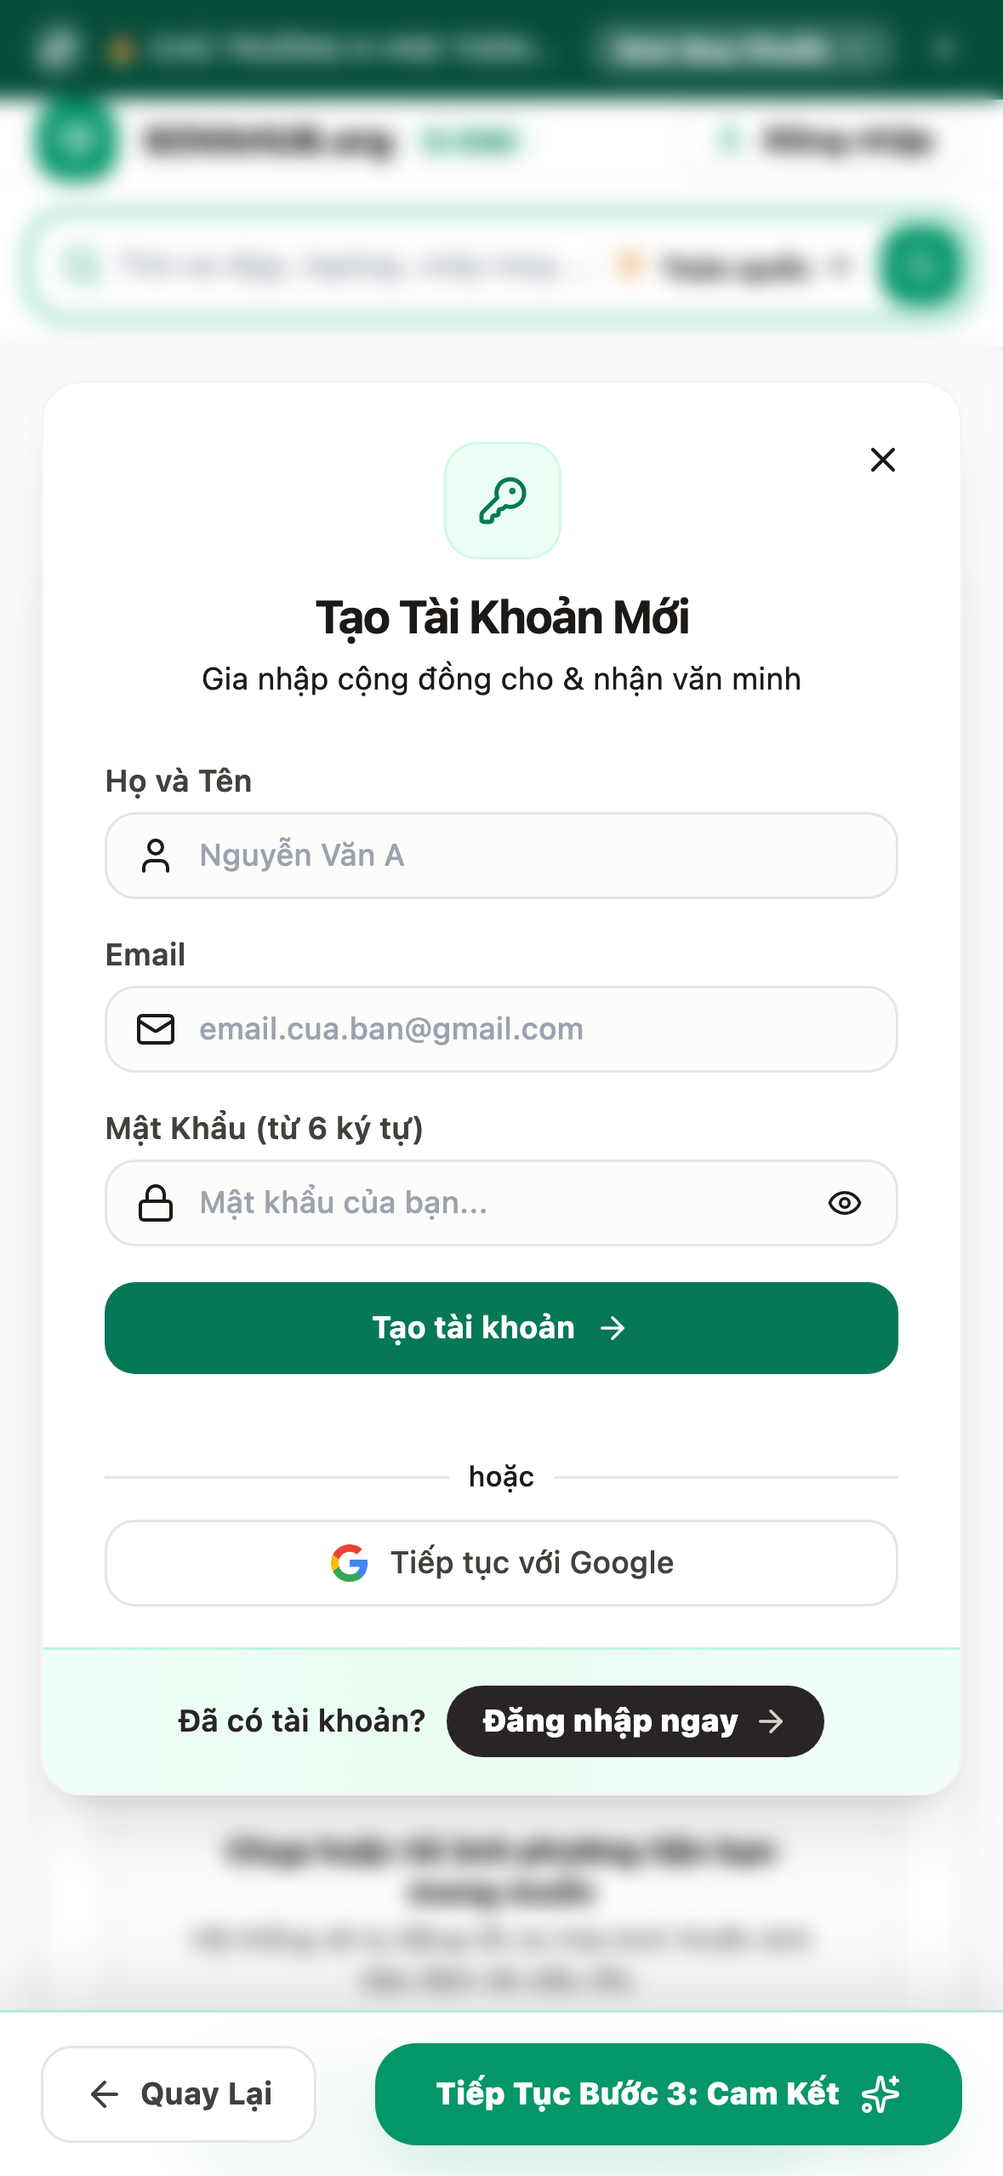
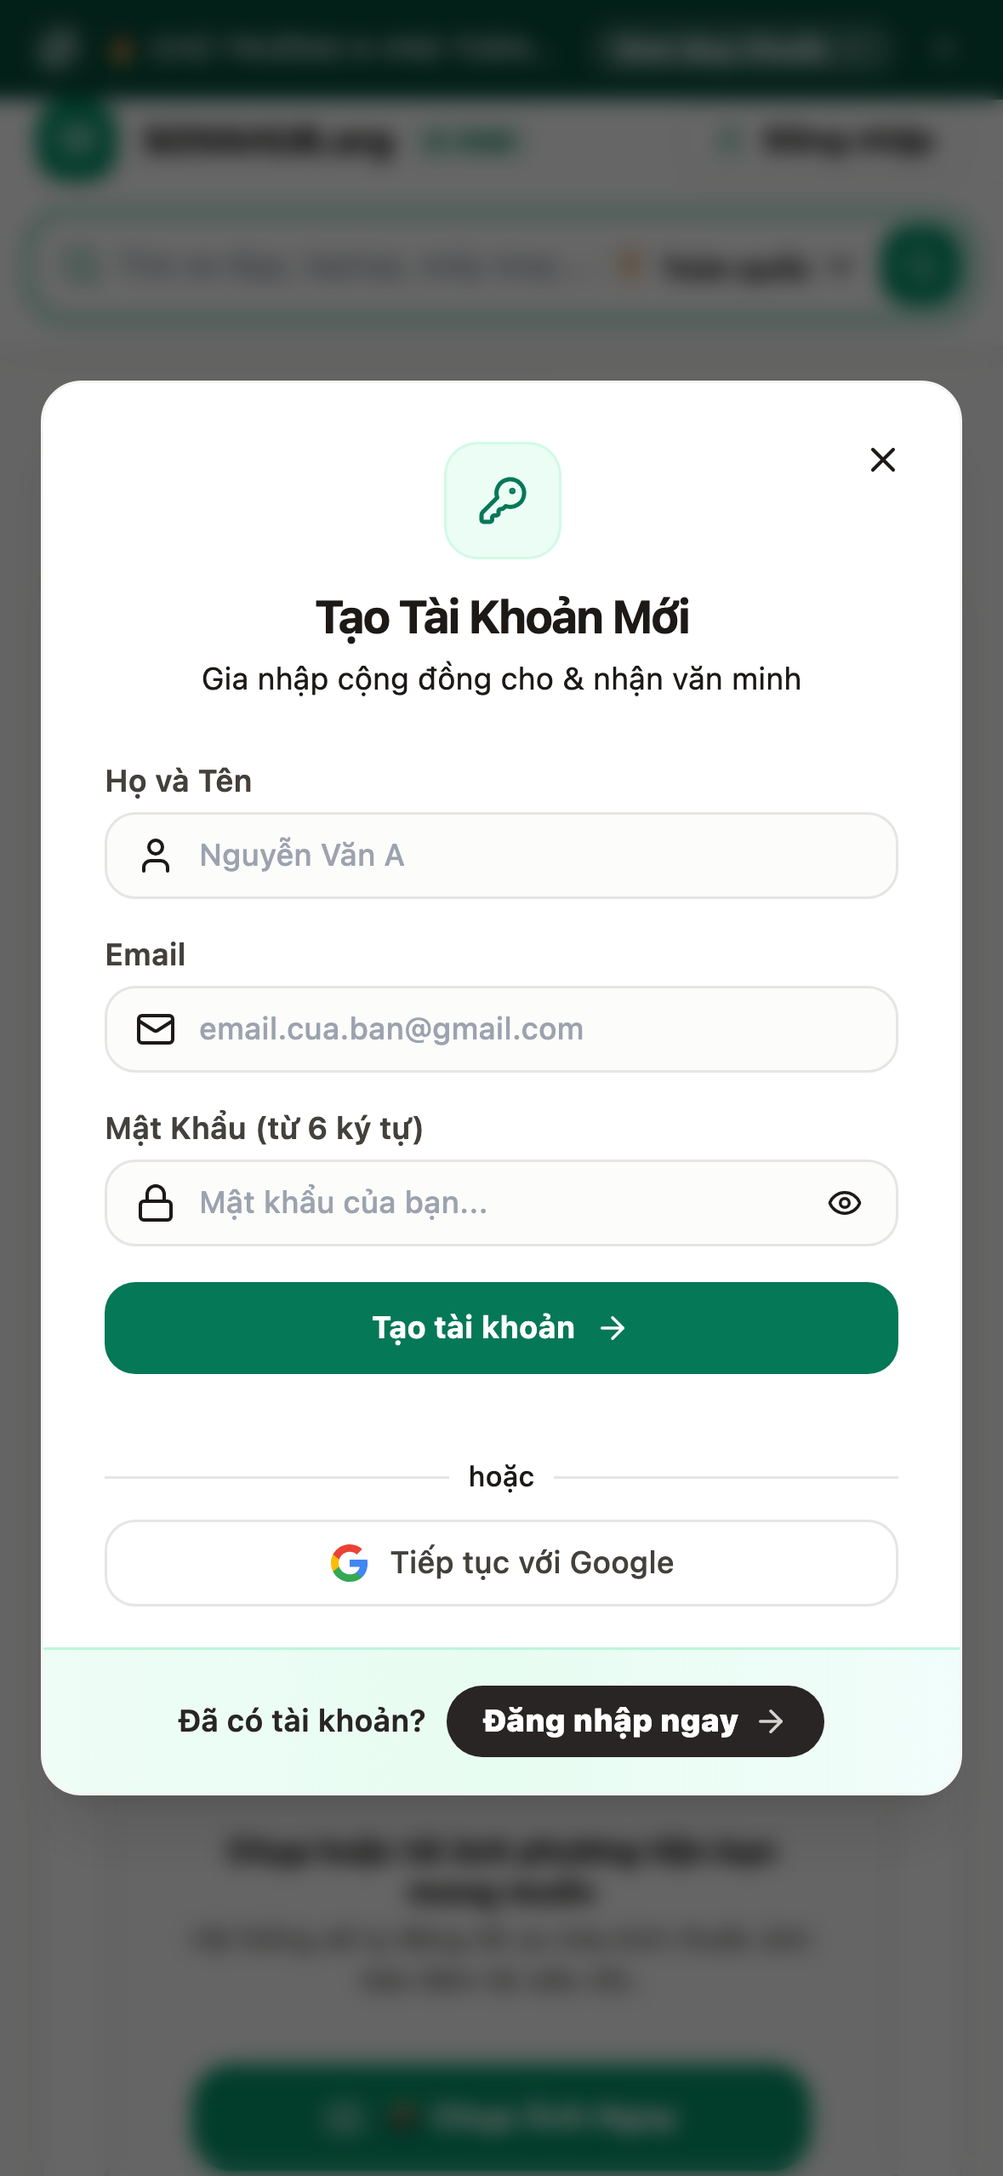
feat(ui): 6-star experience with z-index hierarchy, emerald shimmer wave, spring micro-interactions & dignity meter

diff --git a/src/app/create-wish/page.tsx b/src/app/create-wish/page.tsx
@@ -48,6 +48,7 @@ export default function CreateWishPage() {
   const [createdPassport, setCreatedPassport] = useState<string | null>(null);
   const [subpageNotice, setSubpageNotice] = useState(DEFAULT_FULL_CMS.subpages.createWishNotice);
   const [currentUser, setCurrentUser] = useState<any>(null);
+  const [isAuthModalOpen, setIsAuthModalOpen] = useState(false);
 
   useEffect(() => {
     setSubpageNotice(getFullSiteCMS().subpages.createWishNotice);
@@ -55,13 +56,33 @@ export default function CreateWishPage() {
     setCurrentUser(user);
     if (!user) {
       openAuthModal('REGISTER');
+      setIsAuthModalOpen(true);
     }
 
     const handleAuthChange = () => {
-      setCurrentUser(getActiveUser());
+      const u = getActiveUser();
+      setCurrentUser(u);
+      if (u) {
+        setIsAuthModalOpen(false);
+      }
     };
+
+    const handleAuthModalState = (e: any) => {
+      setIsAuthModalOpen(!!e?.detail?.isOpen);
+    };
+
+    const handleOpenAuth = () => {
+      setIsAuthModalOpen(true);
+    };
+
     window.addEventListener('sova_auth_change', handleAuthChange);
-    return () => window.removeEventListener('sova_auth_change', handleAuthChange);
+    window.addEventListener('sova_auth_modal_state', handleAuthModalState);
+    window.addEventListener('sova_open_auth', handleOpenAuth);
+    return () => {
+      window.removeEventListener('sova_auth_change', handleAuthChange);
+      window.removeEventListener('sova_auth_modal_state', handleAuthModalState);
+      window.removeEventListener('sova_open_auth', handleOpenAuth);
+    };
   }, []);
 
   // Tự động nhận diện danh mục theo từ khóa
@@ -310,7 +331,7 @@ export default function CreateWishPage() {
                         window.scrollTo({ top: 0, behavior: 'smooth' });
                       }, 300);
                     }}
-                    className={`p-4 rounded-2xl border-2 text-left flex items-start gap-3.5 transition-all cursor-pointer ${
+                    className={`btn-spring p-4 rounded-2xl border-2 text-left flex items-start gap-3.5 transition-all cursor-pointer ${
                       active 
                         ? 'border-brand-600 bg-brand-50/60 shadow-soft ring-2 ring-brand-500 scale-[1.01]' 
                         : 'border-warm-200 hover:border-brand-300 hover:bg-warm-50/50 bg-white'
@@ -460,6 +481,47 @@ export default function CreateWishPage() {
                   className="w-full p-3 rounded-2xl border-2 border-warm-200 text-xs font-medium text-warm-900 focus:border-brand-600 focus:outline-none"
                 />
               </div>
+
+              {/* DIGNITY METER (THƯỚC ĐO CAM KẾT DANH DỰ 0-VND) */}
+              <div className="p-3.5 rounded-2xl bg-warm-50/80 border border-warm-200/80 space-y-2">
+                <div className="flex items-center justify-between text-xs">
+                  <div className="flex items-center gap-1.5 font-bold text-warm-800">
+                    <ShieldCheck className={`w-4 h-4 ${reason.trim().length >= 30 ? 'text-emerald-600' : reason.trim().length >= 12 ? 'text-amber-500' : 'text-warm-400'}`}/>
+                    <span>Thước Đo Danh Dự:</span>
+                  </div>
+                  <span className={`px-2 py-0.5 rounded-full text-[10px] font-black transition-all ${
+                    reason.trim().length >= 30 
+                      ? 'bg-emerald-100 text-emerald-800' 
+                      : reason.trim().length >= 12 
+                        ? 'bg-amber-100 text-amber-800' 
+                        : 'bg-warm-200 text-warm-700'
+                  }`}>
+                    {reason.trim().length >= 30 
+                      ? '✨ Chuẩn Danh Dự 10/10' 
+                      : reason.trim().length >= 12 
+                        ? `Cơ bản (${reason.trim().length}/30 ký tự)` 
+                        : `Cần thêm chi tiết (${reason.trim().length}/30 ký tự)`}
+                  </span>
+                </div>
+
+                <div className="h-2 w-full bg-warm-200/80 rounded-full overflow-hidden">
+                  <div 
+                    className={`h-full transition-all duration-500 rounded-full ${
+                      reason.trim().length >= 30 
+                        ? 'bg-gradient-to-r from-emerald-500 to-teal-500 w-full' 
+                        : reason.trim().length >= 12 
+                          ? 'bg-amber-400 w-1/2' 
+                          : 'bg-warm-300 w-1/6'
+                    }`}
+                  />
+                </div>
+
+                <p className="text-[10px] text-warm-600 italic">
+                  {reason.trim().length >= 30 
+                    ? 'Lời chia sẻ chân thành, rõ ràng giúp người trao (Angel) thấu hiểu và an tâm tiếp sức.' 
+                    : 'Hãy chia sẻ ít nhất 30 ký tự về hoàn cảnh thực tế để tăng tối đa cơ hội được trao tặng 0-VND.'}
+                </p>
+              </div>
             </div>
 
             {/* CHECKLIST CAM KẾT DANH DỰ */}
@@ -550,7 +612,9 @@ export default function CreateWishPage() {
       </div>
 
       {/* FLOATING ACTION DOCK (6-STAR ERGONOMIC EXPERIENCE) */}
-      <div className="fixed bottom-0 left-0 right-0 z-[60] bg-white/95 dark:bg-slate-900/95 backdrop-blur-md border-t border-emerald-500/30 px-4 py-3 shadow-[0_-8px_30px_rgba(0,0,0,0.12)]">
+      <div className={`fixed bottom-0 left-0 right-0 z-[50] bg-white/95 dark:bg-slate-900/95 backdrop-blur-md border-t border-emerald-500/30 px-4 py-3 shadow-[0_-8px_30px_rgba(0,0,0,0.12)] transition-all duration-300 ${
+        isAuthModalOpen ? 'opacity-0 pointer-events-none translate-y-full' : 'opacity-100 translate-y-0'
+      }`}>
         <div className="max-w-3xl mx-auto flex items-center justify-between gap-3">
           {/* Nút Quay Lại */}
           {step > 1 ? (
@@ -560,7 +624,7 @@ export default function CreateWishPage() {
                 setStep(step - 1);
                 window.scrollTo({ top: 0, behavior: 'smooth' });
               }}
-              className="px-4 sm:px-5 py-2.5 rounded-xl border border-warm-200 bg-white hover:bg-warm-50 text-xs font-bold text-warm-700 hover:text-brand-700 shadow-2xs flex items-center gap-1.5 transition-all cursor-pointer"
+              className="btn-spring px-4 sm:px-5 py-2.5 rounded-xl border border-warm-200 bg-white hover:bg-warm-50 text-xs font-bold text-warm-700 hover:text-brand-700 shadow-2xs flex items-center gap-1.5 transition-all cursor-pointer"
             >
               <ArrowLeft className="w-4 h-4"/>
               <span>Quay Lại</span>
@@ -581,7 +645,7 @@ export default function CreateWishPage() {
                   setStep(2);
                   window.scrollTo({ top: 0, behavior: 'smooth' });
                 }}
-                className="px-6 py-3 rounded-2xl bg-brand-600 hover:bg-brand-700 active:scale-95 text-white text-xs font-black shadow-float flex items-center gap-2 transition-all cursor-pointer"
+                className="btn-spring px-6 py-3 rounded-2xl bg-brand-600 hover:bg-brand-700 active:scale-95 text-white text-xs font-black shadow-float flex items-center gap-2 transition-all cursor-pointer"
               >
                 <span>Tiếp Tục Bước 2: Hình Ảnh</span>
                 <Sparkles className="w-4 h-4"/>
@@ -595,7 +659,7 @@ export default function CreateWishPage() {
                   setStep(3);
                   window.scrollTo({ top: 0, behavior: 'smooth' });
                 }}
-                className="px-6 py-3 rounded-2xl bg-brand-600 hover:bg-brand-700 active:scale-95 text-white text-xs font-black shadow-float flex items-center gap-2 transition-all cursor-pointer"
+                className="btn-spring px-6 py-3 rounded-2xl bg-brand-600 hover:bg-brand-700 active:scale-95 text-white text-xs font-black shadow-float flex items-center gap-2 transition-all cursor-pointer"
               >
                 <span>Tiếp Tục Bước 3: Cam Kết</span>
                 <Sparkles className="w-4 h-4"/>
@@ -607,7 +671,7 @@ export default function CreateWishPage() {
                 type="button"
                 disabled={submitting}
                 onClick={handleSubmit}
-                className="px-6 sm:px-8 py-3.5 rounded-2xl bg-brand-600 hover:bg-brand-700 active:scale-95 text-white text-xs font-black shadow-float disabled:opacity-50 flex items-center gap-2 transition-all cursor-pointer"
+                className="btn-spring px-6 sm:px-8 py-3.5 rounded-2xl bg-brand-600 hover:bg-brand-700 active:scale-95 text-white text-xs font-black shadow-float disabled:opacity-50 flex items-center gap-2 transition-all cursor-pointer"
               >
                 <Sparkles className="w-4 h-4"/>
                 <span>{submitting ? 'Đang Gieo Mầm...' : 'Gieo Mầm Ước Nguyện 0-VND'}</span>
@@ -619,7 +683,7 @@ export default function CreateWishPage() {
 
       {/* MODAL THÀNH CÔNG */}
       {createdPassport && (
-        <div className="fixed inset-0 z-50 bg-warm-900/60 backdrop-blur-sm flex items-center justify-center p-4">
+        <div className="fixed inset-0 z-[70] bg-black/60 backdrop-blur-sm flex items-center justify-center p-4">
           <div className="bg-white rounded-3xl border-2 border-brand-500 max-w-md w-full p-6 sm:p-8 shadow-2xl text-center space-y-5">
             <div className="w-16 h-16 rounded-full bg-brand-50 text-brand-600 mx-auto flex items-center justify-center ring-8 ring-brand-100">
               <CheckCircle2 className="w-9 h-9"/>

diff --git a/src/app/page.tsx b/src/app/page.tsx
@@ -45,20 +45,20 @@ const CATEGORIES = [
 
 function WishSkeletonCard() {
   return (
-    <div className="bg-white rounded-2xl sm:rounded-3xl border border-warm-200/90 overflow-hidden shadow-soft flex flex-col justify-between animate-pulse">
-      <div className="relative aspect-[4/3] sm:aspect-[16/10] bg-gradient-to-r from-warm-200 via-warm-100 to-warm-200" />
+    <div className="bg-white rounded-2xl sm:rounded-3xl border border-warm-200/90 overflow-hidden shadow-soft flex flex-col justify-between">
+      <div className="relative aspect-[4/3] sm:aspect-[16/10] skeleton-shimmer" />
       <div className="p-3 sm:p-5 flex-1 flex flex-col justify-between space-y-3">
         <div className="space-y-2">
-          <div className="h-4 bg-warm-200 rounded-md w-3/4" />
-          <div className="h-3 bg-warm-100 rounded-md w-1/2" />
+          <div className="h-4 skeleton-shimmer rounded-md w-3/4" />
+          <div className="h-3 skeleton-shimmer rounded-md w-1/2" />
         </div>
         <div className="space-y-1.5 pt-2 hidden sm:block">
-          <div className="h-3 bg-warm-100 rounded w-full" />
-          <div className="h-3 bg-warm-100 rounded w-4/5" />
+          <div className="h-3 skeleton-shimmer rounded w-full" />
+          <div className="h-3 skeleton-shimmer rounded w-4/5" />
         </div>
         <div className="pt-3 border-t border-warm-100 flex items-center justify-between">
-          <div className="h-3 bg-warm-100 rounded w-1/3" />
-          <div className="h-6 sm:h-7 bg-brand-100/70 rounded-xl w-16 sm:w-24" />
+          <div className="h-3 skeleton-shimmer rounded w-1/3" />
+          <div className="h-6 sm:h-7 skeleton-shimmer rounded-xl w-16 sm:w-24" />
         </div>
       </div>
     </div>
@@ -575,7 +575,7 @@ export default function HomePage() {
                   <button
                     key={cat.id}
                     onClick={(e) => handleSelectCategory(cat.id, e)}
-                    className={`inline-flex items-center gap-1.5 px-3 py-1.5 sm:px-3.5 sm:py-2 rounded-xl text-xs font-bold whitespace-nowrap transition-all duration-200 cursor-pointer ${
+                    className={`btn-spring inline-flex items-center gap-1.5 px-3 py-1.5 sm:px-3.5 sm:py-2 rounded-xl text-xs font-bold whitespace-nowrap transition-all duration-200 cursor-pointer ${
                       active 
                         ? 'bg-brand-600 text-white shadow-md shadow-brand-600/25 ring-2 ring-emerald-400/80 scale-[1.03]' 
                         : 'bg-warm-100/80 hover:bg-warm-200/90 text-warm-700 hover:text-warm-900 border border-warm-200/50 hover:scale-[1.01]'
@@ -876,7 +876,7 @@ export default function HomePage() {
       {/* MODAL CHI TIẾT ƯỚC NGUYỆN */}
       {detailWish && (
         <div 
-          className="fixed inset-0 z-[60] bg-warm-900/60 backdrop-blur-sm flex items-end sm:items-center justify-center p-0 sm:p-4 animate-in fade-in"
+          className="fixed inset-0 z-[70] bg-black/60 backdrop-blur-sm flex items-end sm:items-center justify-center p-0 sm:p-4 animate-in fade-in"
           onClick={() => setDetailWish(null)}
         >
           <div 
@@ -890,18 +890,19 @@ export default function HomePage() {
                   <span className="px-2.5 py-0.5 rounded-lg text-[10px] font-black bg-brand-50 text-brand-700 border border-brand-200 uppercase">
                     {normalizeCategoryLabel(inferCategory(detailWish.title, detailWish.category))}
                   </span>
-                  <p className="text-[11px] text-warm-600 flex items-center gap-1 font-bold">
-                    <MapPin className="w-3.5 h-3.5 text-brand-600 shrink-0"/>
-                    <span className="truncate">{VIETNAM_PROVINCES.find(p => p.code === detailWish.province_code)?.name || 'Đà Nẵng'}</span>
-                  </p>
+                  <span className="text-[11px] font-semibold text-warm-500">
+                    Mã #{detailWish.id ? detailWish.id.substring(0, 8) : 'GIVE100'}
+                  </span>
                 </div>
-                <h2 className="text-base sm:text-xl font-black text-warm-900 leading-snug line-clamp-2">{detailWish.title}</h2>
+                <h3 className="font-black text-warm-950 text-base sm:text-lg leading-snug">
+                  {detailWish.title}
+                </h3>
               </div>
 
-              {/* NÚT ĐÓNG X NỔI BẬT CHẠY XUYÊN SUỐT */}
-              <button 
-                onClick={() => setDetailWish(null)} 
-                className="w-9 h-9 sm:w-10 sm:h-10 rounded-full bg-warm-100 hover:bg-warm-200 text-warm-900 border border-warm-200/80 flex items-center justify-center font-black transition-all active:scale-95 hover:scale-105 shrink-0 cursor-pointer shadow-xs"
+              <button
+                type="button"
+                onClick={() => setDetailWish(null)}
+                className="w-8 h-8 rounded-full bg-warm-100 hover:bg-warm-200 text-warm-600 hover:text-warm-900 flex items-center justify-center transition-colors shrink-0 shadow-2xs cursor-pointer"
                 title="Đóng cửa sổ (hoặc bấm ra ngoài / phím Esc)"
               >
                 <X className="w-5 h-5"/>
@@ -943,27 +944,29 @@ export default function HomePage() {
               </div>
             </div>
 
-            {/* PINNED STICKY BOTTOM ACTION FOOTER: LUÔN HIỆN DIỆN, KHÔNG BỊ CHE KHUẤT */}
+            {/* PINNED STICKY BOTTOM ACTION FOOTER */}
             <div className="sticky bottom-0 z-20 bg-white/95 backdrop-blur-md border-t border-warm-200/80 p-3.5 sm:p-4 flex flex-col sm:flex-row gap-2.5 shadow-float">
               <button
+                type="button"
                 onClick={() => {
                   const item = detailWish;
                   setDetailWish(null);
                   openChatModal(item);
                 }}
-                className="py-3 px-4 rounded-2xl bg-warm-100 hover:bg-warm-200 text-warm-900 font-bold text-xs flex items-center justify-center gap-2 transition-all cursor-pointer"
+                className="py-3 px-4 rounded-2xl bg-warm-100 hover:bg-warm-200 text-warm-900 font-bold text-xs flex items-center justify-center gap-2 transition-all active:scale-[0.98] cursor-pointer"
               >
                 <MessageSquare className="w-4 h-4 text-brand-600"/>
                 <span>Nhắn Tin Tìm Hiểu Trước</span>
               </button>
 
               <button
+                type="button"
                 onClick={() => {
                   const item = detailWish;
                   setDetailWish(null);
                   handleOpenClaimModal(item);
                 }}
-                className="flex-1 py-3.5 px-6 rounded-2xl bg-brand-600 hover:bg-brand-700 text-white font-black text-xs sm:text-sm shadow-float flex items-center justify-center gap-2 hover:scale-[1.01] active:scale-95 transition-all cursor-pointer"
+                className="flex-1 py-3.5 px-6 rounded-2xl bg-brand-600 hover:bg-brand-700 text-white font-black text-xs sm:text-sm shadow-float flex items-center justify-center gap-2 hover:scale-[1.01] active:scale-[0.98] transition-all cursor-pointer"
               >
                 <Heart className="w-4 h-4 fill-white"/>
                 <span>Chính Thức Trao Tặng Ước Mơ (Angel)</span>
@@ -976,7 +979,7 @@ export default function HomePage() {
       {/* MODAL NHẮN TIN 1-1 */}
       {chatWish && (
         <div 
-          className="fixed inset-0 z-[60] bg-warm-900/60 backdrop-blur-sm flex items-center justify-center p-4 animate-in fade-in"
+          className="fixed inset-0 z-[70] bg-black/60 backdrop-blur-sm flex items-center justify-center p-4 animate-in fade-in"
           onClick={() => setChatWish(null)}
         >
           <div 
@@ -1124,7 +1127,7 @@ export default function HomePage() {
       {/* MODAL KHỚP NỐI */}
       {selectedWish && (
         <div 
-          className="fixed inset-0 z-[60] bg-warm-900/50 backdrop-blur-sm flex items-center justify-center p-4 animate-in fade-in"
+          className="fixed inset-0 z-[70] bg-black/60 backdrop-blur-sm flex items-center justify-center p-4 animate-in fade-in"
           onClick={() => setSelectedWish(null)}
         >
           <div 

diff --git a/src/app/globals.css b/src/app/globals.css
@@ -42,3 +42,32 @@ body {
   -ms-overflow-style: none !important;
   scrollbar-width: none !important;
 }
+
+/* ==========================================================================
+   6-STAR EMERALD SHIMMER WAVE & SPRING MICRO-INTERACTIONS
+   ========================================================================== */
+@keyframes shimmerWave {
+  0% { background-position: -200% 0; }
+  100% { background-position: 200% 0; }
+}
+
+.skeleton-shimmer {
+  background: linear-gradient(90deg, rgba(243, 244, 246, 0.9) 0%, rgba(209, 250, 229, 0.6) 50%, rgba(243, 244, 246, 0.9) 100%);
+  background-size: 200% 100%;
+  animation: shimmerWave 1.8s infinite linear;
+}
+
+.dark .skeleton-shimmer {
+  background: linear-gradient(90deg, rgba(31, 41, 55, 0.9) 0%, rgba(6, 78, 59, 0.5) 50%, rgba(31, 41, 55, 0.9) 100%);
+  background-size: 200% 100%;
+  animation: shimmerWave 1.8s infinite linear;
+}
+
+/* Tactile Spring Press for Touch & Click */
+.btn-spring {
+  transition: transform 0.15s cubic-bezier(0.34, 1.56, 0.64, 1), box-shadow 0.15s ease;
+}
+.btn-spring:active {
+  transform: scale(0.96);
+}
+

diff --git a/src/components/Navbar.tsx b/src/components/Navbar.tsx
@@ -26,6 +26,12 @@ export default function Navbar() {
   const mobileDropdownRef = useRef<HTMLDivElement>(null);
 
   useEffect(() => {
+    if (typeof window !== 'undefined') {
+      window.dispatchEvent(new CustomEvent('sova_auth_modal_state', { detail: { isOpen: showAuthModal } }));
+    }
+  }, [showAuthModal]);
+
+  useEffect(() => {
     // Lắng nghe sự kiện mở Auth Modal từ bất kỳ nút nào trên website
     const handleOpenAuth = (e: any) => {
       const tab = e?.detail?.tab || 'REGISTER';

diff --git a/src/components/AuthModal.tsx b/src/components/AuthModal.tsx
@@ -285,7 +285,7 @@ export default function AuthModal({ isOpen, onClose, defaultTab = 'LOGIN' }: Aut
   return createPortal(
     <div 
       onClick={handleBackdropClick}
-      className="fixed inset-0 z-50 flex items-center justify-center p-4 bg-warm-950/50 backdrop-blur-sm animate-in fade-in duration-200"
+      className="fixed inset-0 z-[70] flex items-center justify-center p-4 bg-black/60 backdrop-blur-sm animate-in fade-in duration-200"
     >
       <div 
         ref={modalRef}

diff --git a/SYSTEM_MEMORY.md b/SYSTEM_MEMORY.md
@@ -55,6 +55,8 @@ Toàn bộ mã nguồn và dữ liệu ở trạng thái hoàn hảo Gold Master
 <!-- AUTO_SYNC_STATUS_START -->
 | Thời gian (UTC/Local) | Git Commit Hash | Trạng thái kiểm toán | Chi tiết thực thi |
 | :--- | :--- | :--- | :--- |
+| 2026-09-11 09:40:47 | `c12a423` | ✅ 23/23 PASS (100%) | Automated Anti-Regression Gate Passed |
+| 2026-09-11 09:39:41 | `c12a423` | ✅ 23/23 PASS (100%) | Automated Anti-Regression Gate Passed |
 | 2026-09-11 09:32:35 | `c331ff6` | ✅ 23/23 PASS (100%) | Automated Anti-Regression Gate Passed |
 | 2026-09-11 09:31:00 | `c331ff6` | ✅ 23/23 PASS (100%) | Automated Anti-Regression Gate Passed |
 | 2026-09-11 09:25:40 | `efd918b` | ✅ 23/23 PASS (100%) | Automated Anti-Regression Gate Passed |
